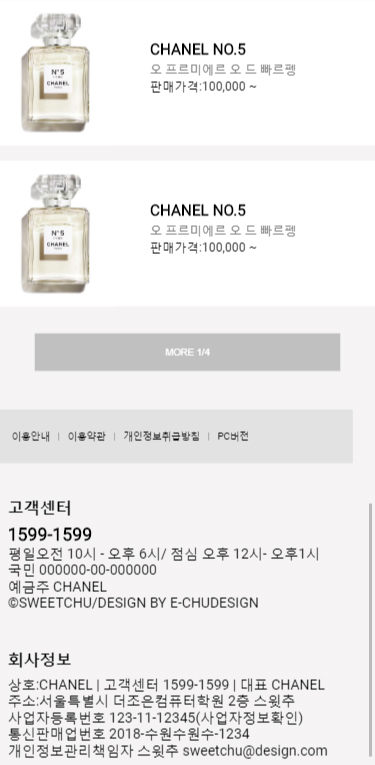
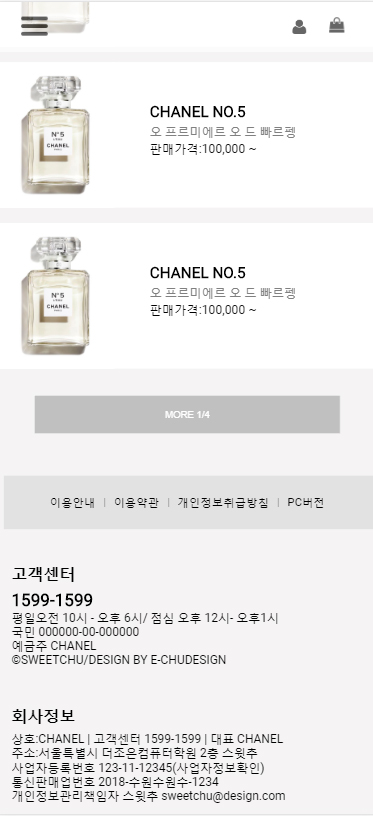
correct2

diff --git a/portfolio02.html b/portfolio02.html
@@ -72,9 +72,9 @@
 			.boxtxt p{padding:0 56px; text-align: left;}
 			.boxtxt{margin:0 auto;}
 
-			.boxtxt>.box11{position: absolute; bottom:-123px; left:10px;}
-			.boxtxt>.box22{position: absolute; bottom:-123px; left:440px;}
-			.boxtxt>.box33{position: absolute; bottom:-123px; right:342px;}
+			.boxtxt>.box33{position: absolute; bottom:-123px; left:10px;}
+			.boxtxt>.box11{position: absolute; bottom:800px; left:10px;}
+			.boxtxt>.box22{position: absolute; bottom:800px; left:430px;}
 
 			.content02,
 			.content03,
@@ -114,7 +114,7 @@
 
 /*새로 */
 
-			.mimg{margin-top: 150px; }
+			.mimg{margin-top: 20px; }
 			.content01 #mimg-r{margin-right:80px;}
 			
 		</style>
@@ -158,25 +158,33 @@
 			<div class="box3" style="font-size:16px;">
 				3
 			</div>
-			<p>향수 쇼핑몰을 제작하였습니다. CHANEL 향수이미지와 로고를 임시 사용하였으며, <br>
+			<p style="line-height:1.4;">향수 쇼핑몰을 제작하였습니다. CHANEL 향수이미지와 로고를 임시 사용하였으며, <br>
 			포트폴리오용으로 제작되었습니다.</p>
 			<img src="image/PT02_02.jpg" alt="" width="1200px">
-			<img class="mimg" id="mimg-r" src="image/PT02_03.jpg" alt="mobile" width="341px" height="690px">
-			<img class="mimg" id="mimg-r" src="image/PT02_04.jpg" alt="mobile" width="341px" height="690px">
-			<img class="mimg" src="image/PT02_05.jpg" alt="mobile" width="341px" height="690px">
-			
-			<!-- <img src="image/PT01_04.jpg" alt="" width="1200px" style="margin-top: 50px;"> -->
+
 			<div style="width:1200px; height: auto; margin:0 auto;" class="boxtxt">
 				<div class="box11" style="font-size:16px;">
 				1
 				</div>
 				<p>마우스를 올렸을 시 색상이 변합니다 <br>
 				스크롤하여도 네비게이션이 상단고정이 됩니다.</p>
+				
 				<div class="box22" style="font-size:16px;">
 					2
 				</div>
 				<p>광고동영상이 재생됩니다. 풀 커버가 아닌 <br>
 				사선화면으로 재미를 자극합니다.</p>
+
+			</div>
+
+			<img class="mimg" id="mimg-r" src="image/PT02_03.jpg" alt="mobile" width="341px" height="690px">
+			<img class="mimg" id="mimg-r" src="image/PT02_04.jpg" alt="mobile" width="341px" height="690px">
+			<img class="mimg" src="image/PT02_05.jpg" alt="mobile" width="341px" height="690px">
+			
+			<!-- <img src="image/PT01_04.jpg" alt="" width="1200px" style="margin-top: 50px;"> -->
+			<div style="width:1200px; height: auto; margin:0 auto;" class="boxtxt">
+				
+
 				<div class="box33" style="font-size:16px;">
 					3
 				</div>
@@ -192,11 +200,9 @@
 			<h3>사이트분석 <span>Site Analysis</span></h3>
 			<p>
 				쇼핑몰답게 제품이 돋보이고, <br>
-				구매함에 있어 불편함 없는 것을  <br>
+				구매와 상품설명이 심플한것을 <br>
 				우선시 생각하게 되었습니다. <br>
-				제품사진이 작게 들어가 있거나, <br>
-				이미지 나열이 많은것은 ,  <br>
-				시선집중을 방해합니다.
+				
 			</p>
 		</section>
 		
@@ -207,26 +213,23 @@
 				데스크탑 전용과 모바일 전용을 같이<br>
 				제작,기획하게 되었습니다.<br>
 				향수 쇼핑몰로서 제품을 돋보일 수 있는<br>
-				레이아웃으로 기획하여 한눈에 보이며, <br>
-				포인트 동영상으로 시선집중과,<br>
-				제품에 대한 고급스러움을<br>
-				표현했습니다.
+				레이아웃으로 기획하여 한눈에 보입니다.
 			</p>
 		</section>
 
 		<section class="content04 section_p content">
 			<h3>톤 앤 매너 <span>Tone & Manner</span></h3>
 			<p>
-				제품이 돋보일 수 있고, 전체적인 느낌은 <br>
+				제품이 돋보일 수 있고, <br>
 				갈끔하고,고급스러운 분위기를 연출가능한 <br>
-				화이트,블랙을 주로 사용하였습니다. <br>
+				화이트,블랙을 사용하였습니다. <br>
 			</p>
 		</section>
 
 		<section class="content05 section_p content">
 			<h3>퍼블리싱 <span>Publishing</span></h3>
 			<p>
-				마우스오버시 색상이변합니다. <br>
+				마우스오버시 색상이 변합니다. <br>
 				메인동영상을 일반적 풀커버화면이 아닌, <br>
 				사선화면적용을 하여 재미를 더했습니다. <br>
 				아래쪽 제품 마우스오버시 제품설명과, <br>

diff --git a/purfume_web/mobile.html b/purfume_web/mobile.html
@@ -30,7 +30,7 @@
 		<header>
 			<ul class="navbox11" style="width: 100%;">
 				<li class="menubtn" ><a href="#" ><img src="image01/MENU.png" alt="menu" width="80px"></a></li>
-				<li><a href="#"><img src="image01/HUMEN.png" alt="" width="40px" height="50px"></a></li>
+				<li><a href="#"><img src="image01/HUMEN.png" alt="" width="36px" height="50px"></a></li>
 				<li><a href="#"><img src="image01/Shoppingcart.png" alt="" width="40px" height="auto"></a></li>
 			</ul>
 
@@ -206,22 +206,22 @@
 		</footer>
 
 	<script>
-		$(function(){
-			$(".menubtn").click(function(){
-				$(".navbox1>li").slideToggle();
-			});
-		});
-		var userAgent = navigator.userAgent;
-		// alert(userAgent);
+		// $(function(){
+		// 	$(".menubtn").click(function(){
+		// 		$(".navbox1>li").slideToggle();
+		// 	});
+		// });
+		// var userAgent = navigator.userAgent;
+		// // alert(userAgent);
 
- 		//스마트폰 구분	
- 		var smartPhones = ['iphone', 'ipad', 'android'];
- 			for(var i in smartPhones) {
- 			if(navigator.userAgent.toLowerCase().match(new RegExp(smartPhones[i]))) {
- 			alert('스마트폰 페이지로 이동합니다.');
- 			location = 'https://chumi1234.github.io/CHU/purfume_web/mobile.html';//이동하고자 하는 주소 작성
- 			};
- 		}
+ 	// 	//스마트폰 구분	
+ 	// 	var smartPhones = ['iphone', 'ipad', 'android'];
+ 	// 		for(var i in smartPhones) {
+ 	// 		if(navigator.userAgent.toLowerCase().match(new RegExp(smartPhones[i]))) {
+ 	// 		alert('스마트폰 페이지로 이동합니다.');
+ 	// 		location = 'https://chumi1234.github.io/CHU/purfume_web/mobile.html';//이동하고자 하는 주소 작성
+ 	// 		};
+ 	// 	}
 				
 		
 	</script>	

diff --git a/purfume_web/mobile.css b/purfume_web/mobile.css
@@ -14,8 +14,8 @@ header>.navbox1>li:first-child{margin-top: 100px;}
 header>.navbox11{overflow: hidden; }
 header>.navbox11 a{display: block; width: 100%}
 header>.navbox11 li:nth-child(1){position:absolute; left: 50px;}
-header>.navbox11 li:nth-child(2){position:absolute; right: 150px; top:40px;}
-header>.navbox11 li:nth-child(3){position:absolute; right: 50px; top:40px;}
+header>.navbox11 li:nth-child(2){position:absolute; right: 180px; top:40px;}
+header>.navbox11 li:nth-child(3){position:absolute; right: 80px; top:40px;}
 			
 
 .logo>h1{font-size: 20px; font-weight: bold; /* clear: both; */ z-index: 9999;}
@@ -62,12 +62,13 @@ header>.navbox11 li:nth-child(3){position:absolute; right: 50px; top:40px;}
 .btn>.more{width: 800px; height: 100px; outline: none; border:1px solid; background-color: #c0c0c0; color: white; font-size: 25px; margin-top: 50px; margin-bottom: 50px;}
 			
 /* 푸터 */
-footer{line-height: 1.2; width: 90%;}
+footer{line-height: 1.2; width:95%; padding:10px;}
 footer>div{padding: 20px 20px;}
-footer p{font-size: 14px; width: 100%;}
+footer p{width: 100%; font-size: 12px;}
 footer >.ftbox1{width: 100%; height: 100px; background-color: #e2e2e2; margin: 50px 0; }
-footer >.ftbox1 li{float: left; line-height: 100px; font-size: 25px; margin:0 10px; color: #959595;}
+footer >.ftbox1 li{float: left; line-height: 100px; font-size: 30px; margin:0 10px; color: #959595;  }
+footer >.ftbox1 li:first-child{margin-left:100px;}
 footer >.ftbox2{}
-footer >.ftbox2 span{font-weight: bold; font-size: 25px; }
+footer >.ftbox2 span{font-weight: bold; font-size: 22px; }
 footer  h5{font-weight: bold; margin:20px 0;}
 footer >.ftbox3{margin-top: 40px;}

diff --git a/purfume_web/index.css b/purfume_web/index.css
@@ -42,8 +42,8 @@ header>.navbox2>li:first-child{margin-right: 50px;margin-top:-3px;}
 /* 푸터박스1 */
 .ftbox1,.ftbox2{width: 70%; margin:20px auto;}
 .ftbox1{border-bottom: 1px solid; padding: 50px 0 50px 0; overflow: hidden;}
-.ftbox1 input{border:1px solid; outline: none; padding:20px; float: right; width: 364px;}
-.ftbox1 button{border:1px solid; outline: none; padding:20px; border-left: none;background-color: #fff; cursor: pointer; float: right;}
+.ftbox1 input{border:1px solid; outline: none; padding:10px; float: right; width: 310px;}
+.ftbox1 button{border:1px solid; outline: none; padding:10px; border-left: none;background-color: #fff; cursor: pointer; float: right;}
 .ftbox1 h4{font-size: 28px; font-weight: bold; letter-spacing: 3px;}
 .ftbox1 p{font-size: 11px; line-height: 1.4;}
 .ftbox1 p>span{font-size: 12px; line-height: 3; letter-spacing: 3px;}
@@ -59,9 +59,9 @@ footer li a:hover{color: gray;}
 
 .box2_txt1,
 .box2_txt3{
-	text-align: left;width: 20%; padding: 30px 0 40px 0; line-height: 2;
+	text-align: left;width: 20%; padding: 10px 0 40px 0; line-height: 2;
 }
-.box2_txt2{text-align: center;width: 60%; padding-top: 58px; line-height:50px; }
+.box2_txt2{text-align: center;width: 60%; padding-top: 70px; line-height:50px; font-size: 14px; }
 .box2_txt2 a:hover{opacity: .6;}
 .box2_txt3{text-align: right;width: 20%;}
 
